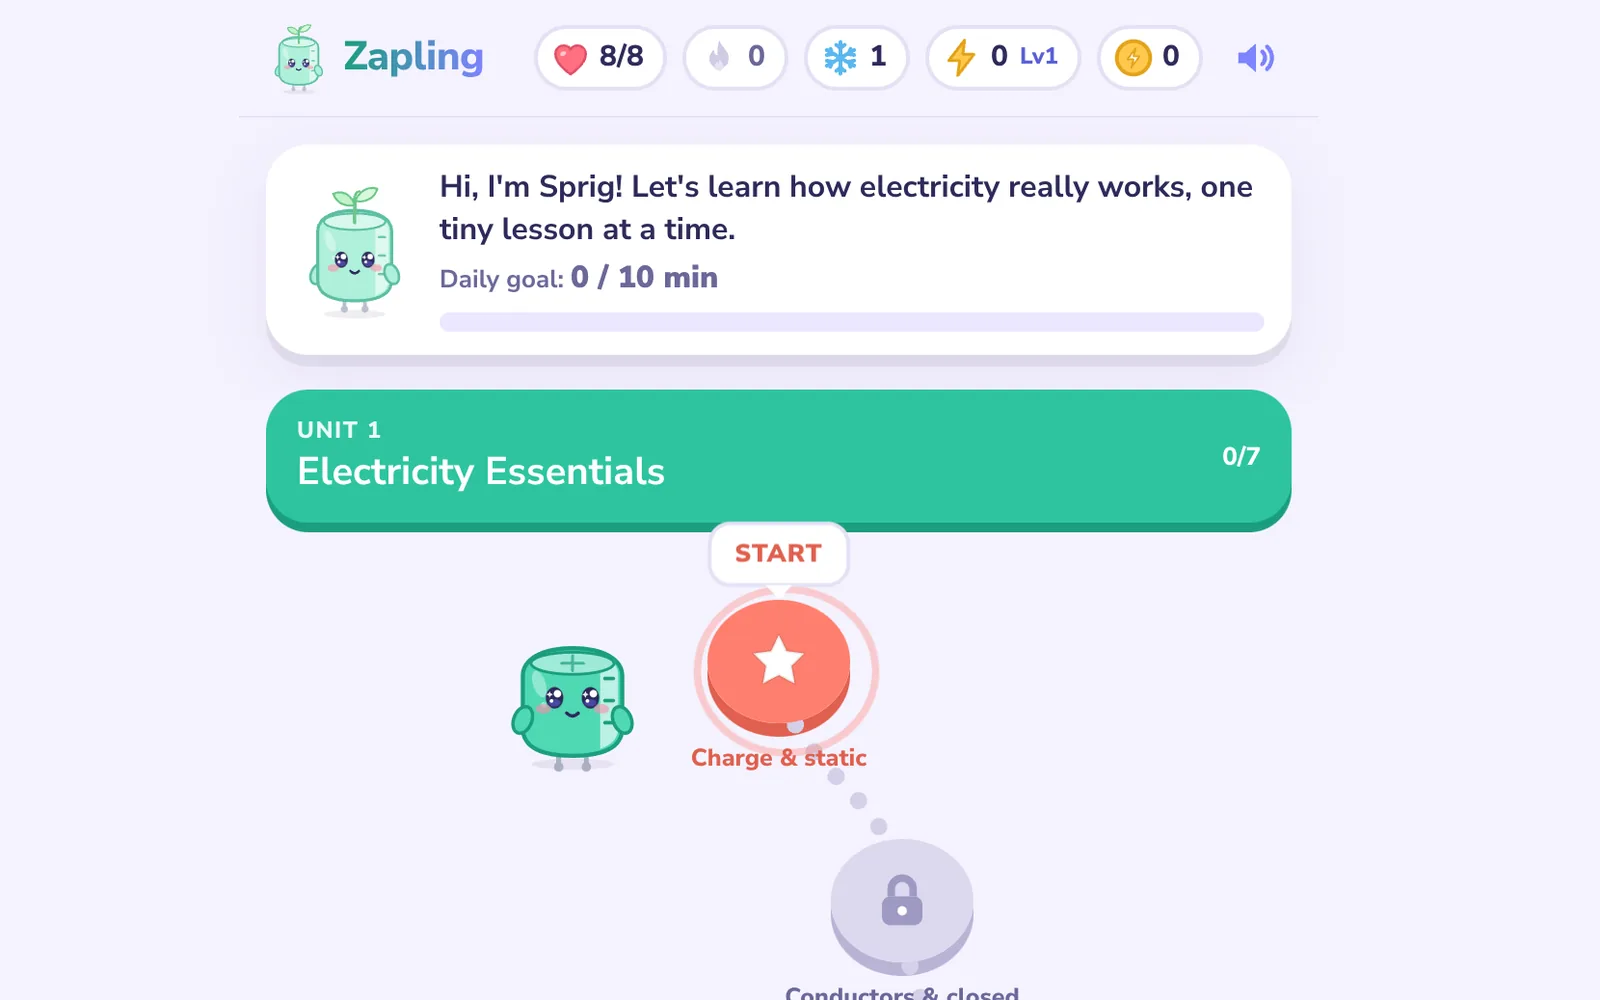
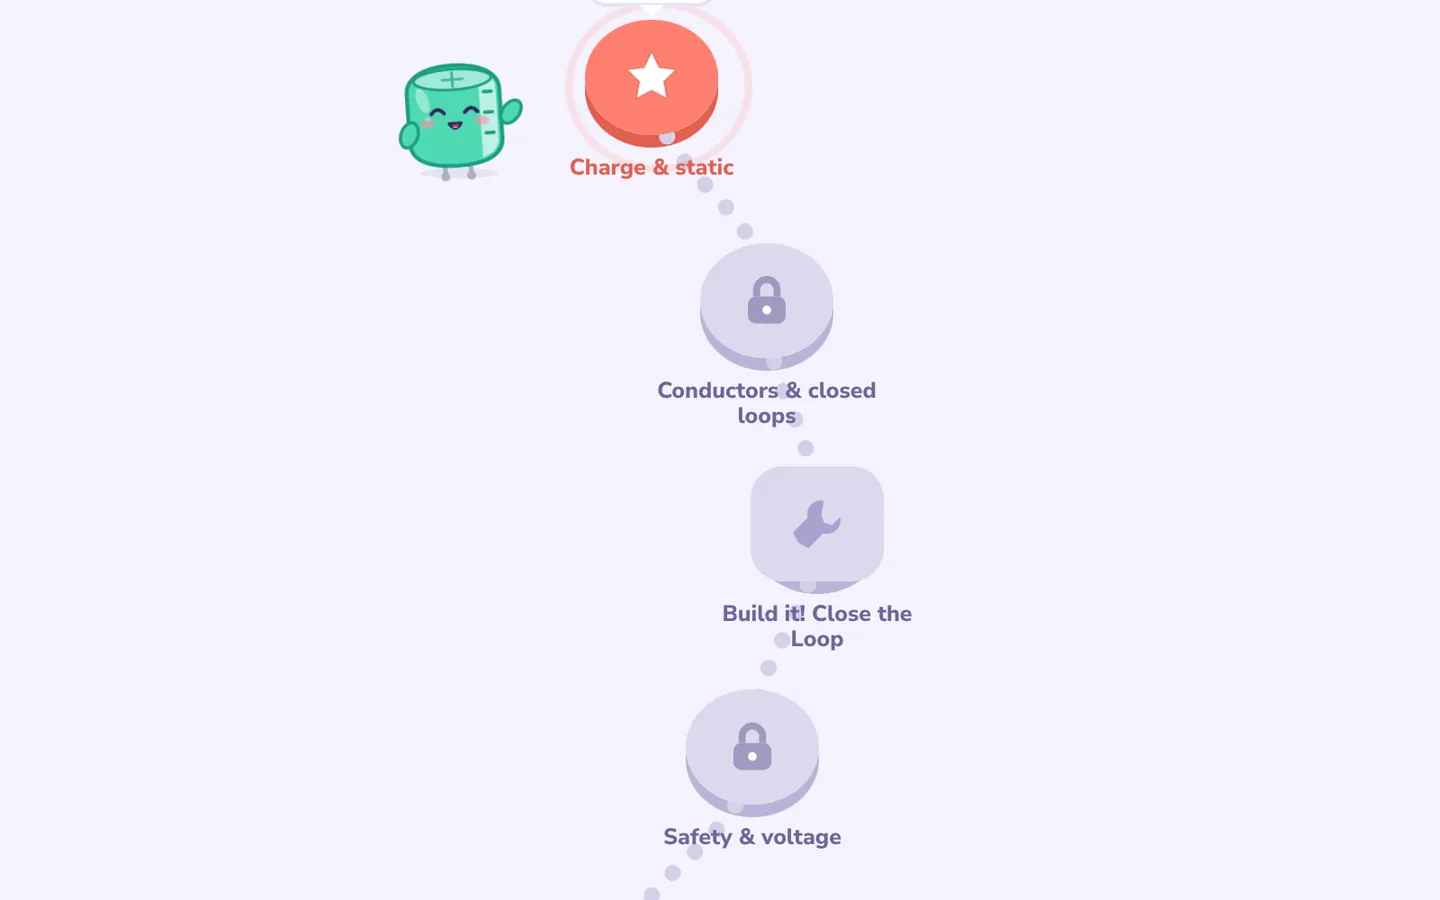
Zapling card: focus image on lesson path

diff --git a/index.html b/index.html
@@ -77,7 +77,7 @@ section{position:relative;padding:120px 0;border-top:1px solid var(--line)}
 .arm-box .hint{position:absolute;left:14px;bottom:10px;margin:0;z-index:2;pointer-events:none}
 @media (max-width:880px){.exp-grid{grid-template-columns:1fr}.arm-box{position:relative;top:0;height:380px}}
 /* projects */
-.media.shot{border-color:rgba(167,123,255,.45);box-shadow:0 0 0 1px rgba(167,123,255,.15),0 0 28px rgba(167,123,255,.18)}.media.shot img{position:absolute;inset:0;width:100%;height:100%;object-fit:cover;object-position:center top;transition:transform .8s cubic-bezier(.2,.8,.2,1),filter .5s;filter:saturate(.95) brightness(.92)}.proj:hover .media.shot img{transform:scale(1.05);filter:none}.proj:hover .media.shot{box-shadow:0 0 0 1px var(--accent),0 0 36px var(--glow)}
+.media.shot{border-color:rgba(167,123,255,.45);box-shadow:0 0 0 1px rgba(167,123,255,.15),0 0 28px rgba(167,123,255,.18)}.media.shot img{position:absolute;inset:0;width:100%;height:100%;object-fit:cover;object-position:50% 45%;transition:transform .8s cubic-bezier(.2,.8,.2,1),filter .5s;filter:saturate(.95) brightness(.92)}.proj:hover .media.shot img{transform:scale(1.05);filter:none}.proj:hover .media.shot{box-shadow:0 0 0 1px var(--accent),0 0 36px var(--glow)}
 
 #projects{overflow:hidden;cursor:crosshair}#projects::after{content:"";position:absolute;inset:0;z-index:1;pointer-events:none;background:linear-gradient(180deg,#000 0%,transparent 16%,transparent 84%,#000 100%)}
 .projects{position:relative;z-index:3;background:rgba(4,3,8,.8);backdrop-filter:blur(2px);-webkit-backdrop-filter:blur(2px)}#projects .sec-head{position:relative;z-index:3}
@@ -167,7 +167,7 @@ footer{border-top:1px solid var(--line);padding:28px 0}footer .wrap{display:flex
 <div class="wrap"><div class="sec-head reveal"><h2>Current projects.</h2><p>Things I've built by directing AI.</p><p class="hint" style="margin-top:14px">◎ Move cursor to steer · click to boost</p></div>
 <div class="projects reveal">
 <article class="proj"><div class="meta"><span>Live</span><span class="st">Web app</span></div>
-<div class="media shot"><img src="assets/zapling.webp" alt="Zapling app: Unit 1 lesson path with Sprig" loading="lazy" width="1600" height="1000"></div>
+<div class="media shot"><img src="assets/zapling.webp" alt="Zapling app: lesson path with Sprig" loading="lazy" width="1440" height="900"></div>
 <h3>Zapling</h3><p>A Duolingo-style electrical engineering learning app with a Circuit Lab, lessons, and Sprig, a built-in helper.</p>
 <div class="acts"><a class="btn" href="https://lilyofthevalley1618.github.io/zapling/" target="_blank" rel="noopener">Open Zapling ↗</a></div></article>
 <article class="proj"><div class="meta"><span>In development</span><span class="st">Game</span></div>
